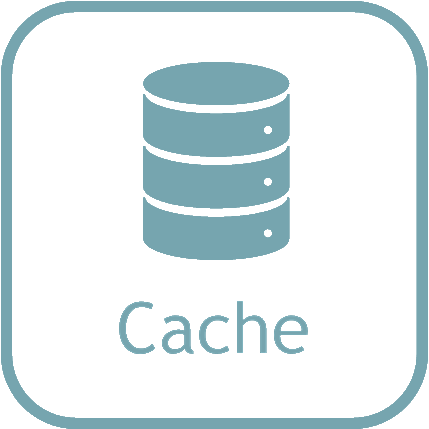
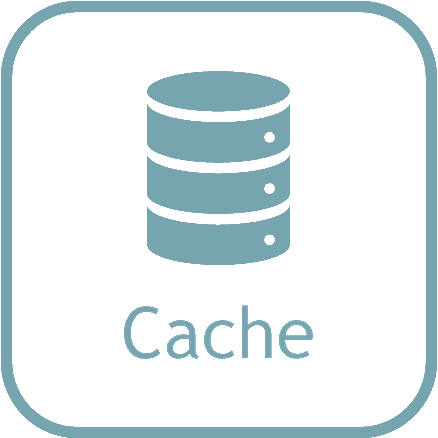
Redone admin styling & Audit and Config pages created
Icons redone to be more uniform, css changed to work slightly better on mobile, two pages added for future

diff --git a/NetworkVisualizer/wwwroot/css/site.min.css b/NetworkVisualizer/wwwroot/css/site.min.css
@@ -1,1 +1,1 @@
-body{font-family:'Trebuchet MS','Lucida Sans Unicode','Lucida Grande','Lucida Sans',Arial,sans-serif;font-size:20px}#banner{display:block;width:500px;margin:auto;margin-top:1vh}.contentBlock{margin:20px 100px;margin-top:0}.login{width:50vw;margin:auto;margin-top:15px;margin-bottom:15px}.control-panel{display:block;width:650px;margin:auto;margin-top:10vh}.adminButton{height:200px;width:200px;margin:5px}#chart-div{width:100%}h2{color:#666;font-size:24px}h3{color:#666}p{color:#888;padding-top:2vh}a{color:#76a5af}footer{background-color:#eee;height:70px;width:100%;padding-top:10px;position:fixed;bottom:0}footer p{padding-top:10px}@media screen and (max-width:767px){#banner{width:380px}.contentBlock{margin:20px 40px;margin-top:0}.login{width:100%}.control-panel{width:160px;margin:auto}.adminButton{height:150px;width:150px;margin:5px}footer p{font-size:15px;margin-bottom:5px}}
+body{font-family:'Trebuchet MS','Lucida Sans Unicode','Lucida Grande','Lucida Sans',Arial,sans-serif;font-size:20px}#banner{display:block;width:500px;margin:auto;margin-top:1vh}.contentBlock{margin:20px 100px;margin-top:0}.login{width:50vw;margin:auto;margin-top:15px;margin-bottom:15px}.control-panel{display:block;width:650px;margin:auto;margin-top:6vh}.adminButton{height:200px;width:200px;margin:5px}#chart-div{width:100%}h2{color:#666;font-size:24px}h3{color:#666}p{color:#888;padding-top:2vh}a{color:#76a5af}footer{background-color:#eee;height:70px;width:100%;padding-top:10px;position:fixed;bottom:0}footer p{padding-top:10px}@media screen and (max-width:767px){#banner{width:360px}.contentBlock{margin:20px 40px;margin-top:0}.login{width:100%}.control-panel{width:160px;margin:auto}.adminButton{height:150px;width:150px;margin:5px}footer p{font-size:15px;margin-bottom:5px}}

diff --git a/NetworkVisualizer/wwwroot/css/site.css b/NetworkVisualizer/wwwroot/css/site.css
@@ -26,7 +26,7 @@
     display: block;
     width: 650px;
     margin: auto;
-    margin-top: 10vh;
+    margin-top: 6vh;
 }
 
 .adminButton {
@@ -71,7 +71,7 @@ footer p {
 /* Hide/rearrange for smaller screens */
 @media screen and (max-width: 767px) {
     #banner {
-        width: 380px;
+        width: 360px;
     }
     .contentBlock {
         margin: 20px 40px;

diff --git a/NetworkVisualizer/Startup.cs b/NetworkVisualizer/Startup.cs
@@ -86,6 +86,14 @@ namespace NetworkVisualizer
                     "login",
                     new { controller = "Admin", action = "Login", id = "" });
                 routes.MapRoute(
+                    "config",
+                    "config",
+                    new { controller = "Admin", action = "Config", id = "" });
+                routes.MapRoute(
+                    "audit",
+                    "audit",
+                    new { controller = "Admin", action = "Audit", id = "" });
+                routes.MapRoute(
                     "packets",
                     "packets",
                     new { controller = "Admin", action = "PacketList", id = "" });

diff --git a/NetworkVisualizer/Controllers/AdminController.cs b/NetworkVisualizer/Controllers/AdminController.cs
@@ -59,6 +59,24 @@ namespace NetworkVisualizer.Controllers
             return View();
         }
 
+        // GET: Config
+        public IActionResult Config()
+        {
+            if (!LoggedIn())
+                return Redirect("~/login");
+
+            return View();
+        }
+
+        // GET: Audit
+        public IActionResult Audit()
+        {
+            if (!LoggedIn())
+                return Redirect("~/login");
+
+            return View();
+        }
+
         // GET: PacketList
         public async Task<IActionResult> PacketList()
         {
